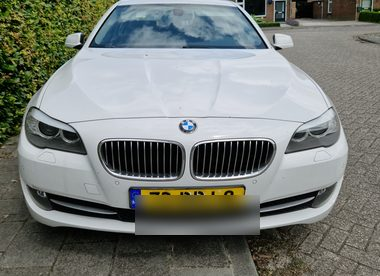
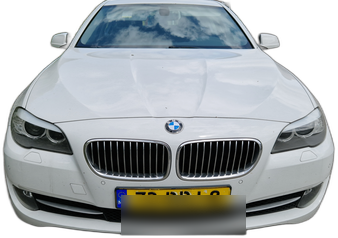
Trim mobil list to 4 cars with isolated cutout photos
Narrow the "Explore Popular Cars" list down to the 4 requested
vehicles (Daihatsu Sigra, BYD Seal, Toyota Alphard, BMW 5 Series),
dropping Innova and Binguo. Replace the environmental photos with
background-removed cutouts (via rembg) so each car floats on its
pastel card background, matching the reference mockup's card style
instead of showing full street/parking-lot backgrounds.

diff --git a/src/components/Explore/Explore.tsx b/src/components/Explore/Explore.tsx
@@ -1,19 +1,15 @@
 import '../../css/components/Explore/Explore.css'
 import CardExplore from './CardExplore'
-import innova from '../../assets/innova.png'
-import alphard from '../../assets/alphard.jpg'
-import binguo from '../../assets/binguo.png'
+import sigra from '../../assets/sigra.png'
+import bydSeal from '../../assets/byd_seal.png'
+import alphard from '../../assets/alphard.png'
 import bmw from '../../assets/bmw.png'
-import sigra from '../../assets/sigra.jpg'
-import bydSeal from '../../assets/byd_seal.jpg'
 
 const CARS = [
-  { name: 'Toyota Innova 2.0 V', pict: innova, rating: '4.8', price: 'Rp450rb', bg: 'peach' as const },
-  { name: 'Toyota Alphard', pict: alphard, rating: '4.9', price: 'Rp1,2jt', bg: 'pink' as const },
-  { name: 'BMW 5 Series', pict: bmw, rating: '5.0', price: 'Rp1,5jt', bg: 'gray' as const },
   { name: 'Daihatsu Sigra R', pict: sigra, rating: '4.7', price: 'Rp350rb', bg: 'peach' as const },
-  { name: 'Wuling Binguo', pict: binguo, rating: '4.6', price: 'Rp400rb', bg: 'pink' as const },
-  { name: 'BYD Seal', pict: bydSeal, rating: '4.8', price: 'Rp900rb', bg: 'gray' as const },
+  { name: 'BYD Seal', pict: bydSeal, rating: '4.8', price: 'Rp900rb', bg: 'pink' as const },
+  { name: 'Toyota Alphard', pict: alphard, rating: '4.9', price: 'Rp1,2jt', bg: 'gray' as const },
+  { name: 'BMW 5 Series', pict: bmw, rating: '5.0', price: 'Rp1,5jt', bg: 'peach' as const },
 ]
 
 function Explore() {
